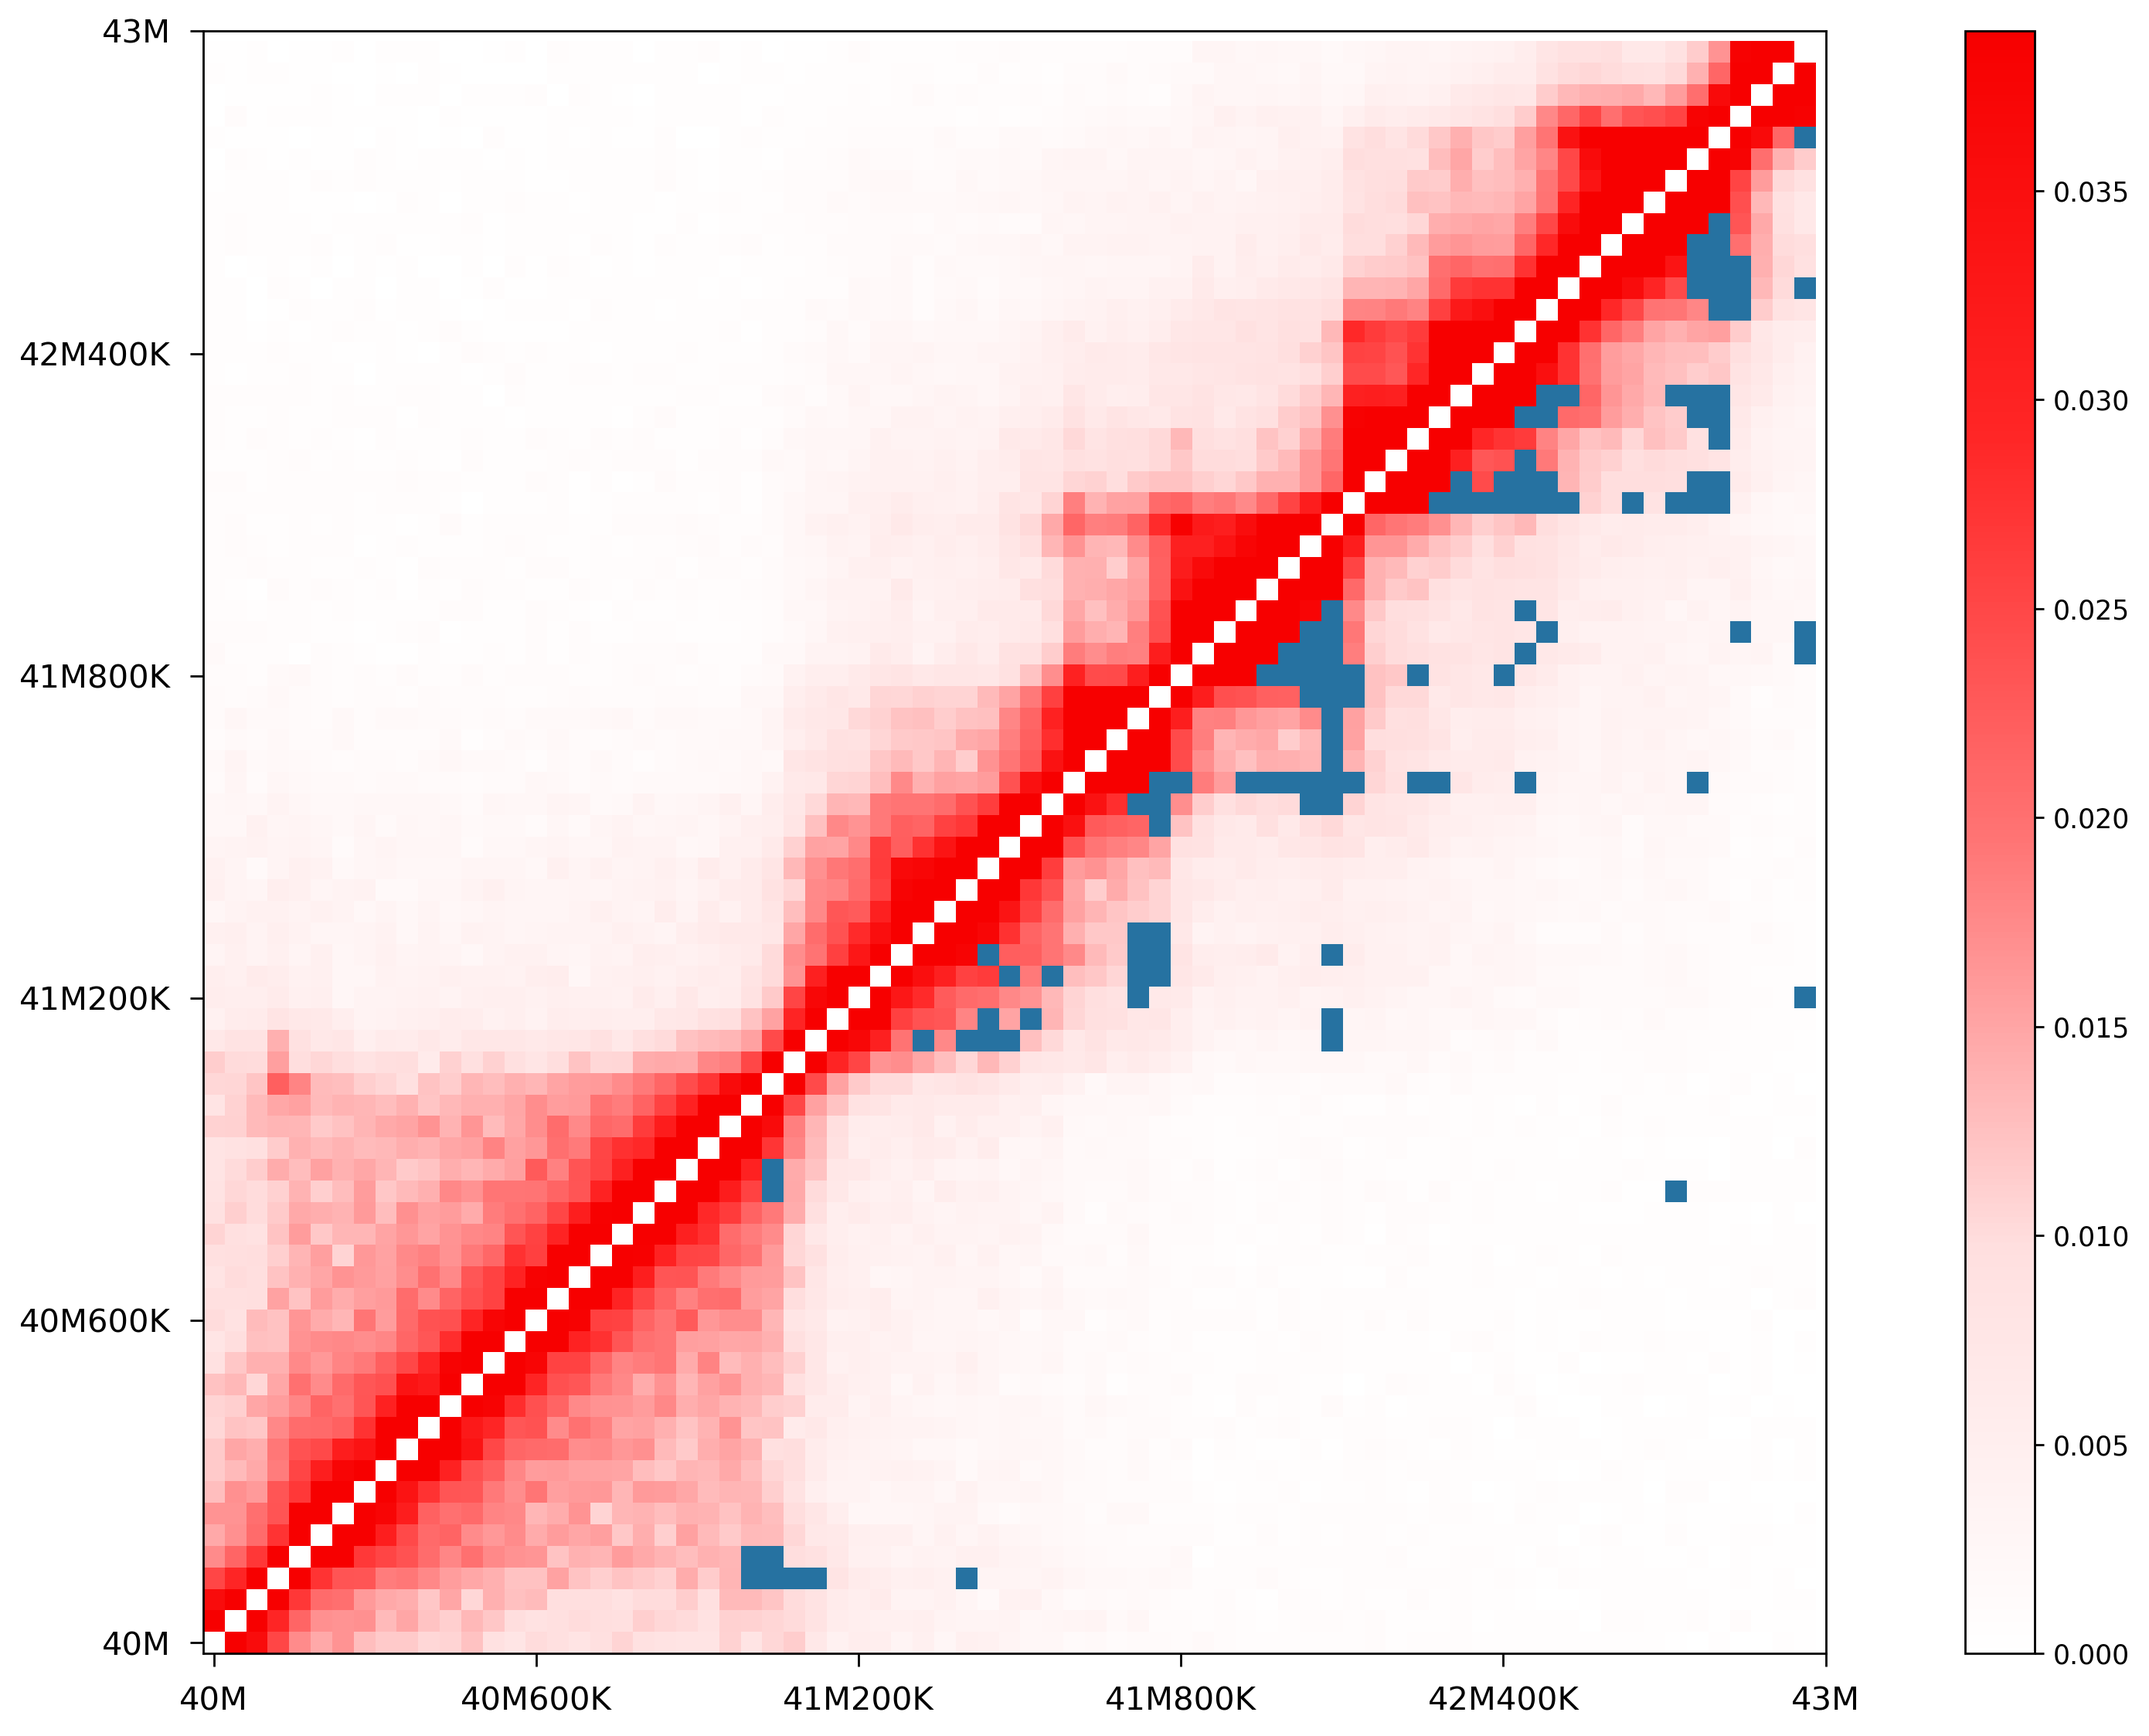
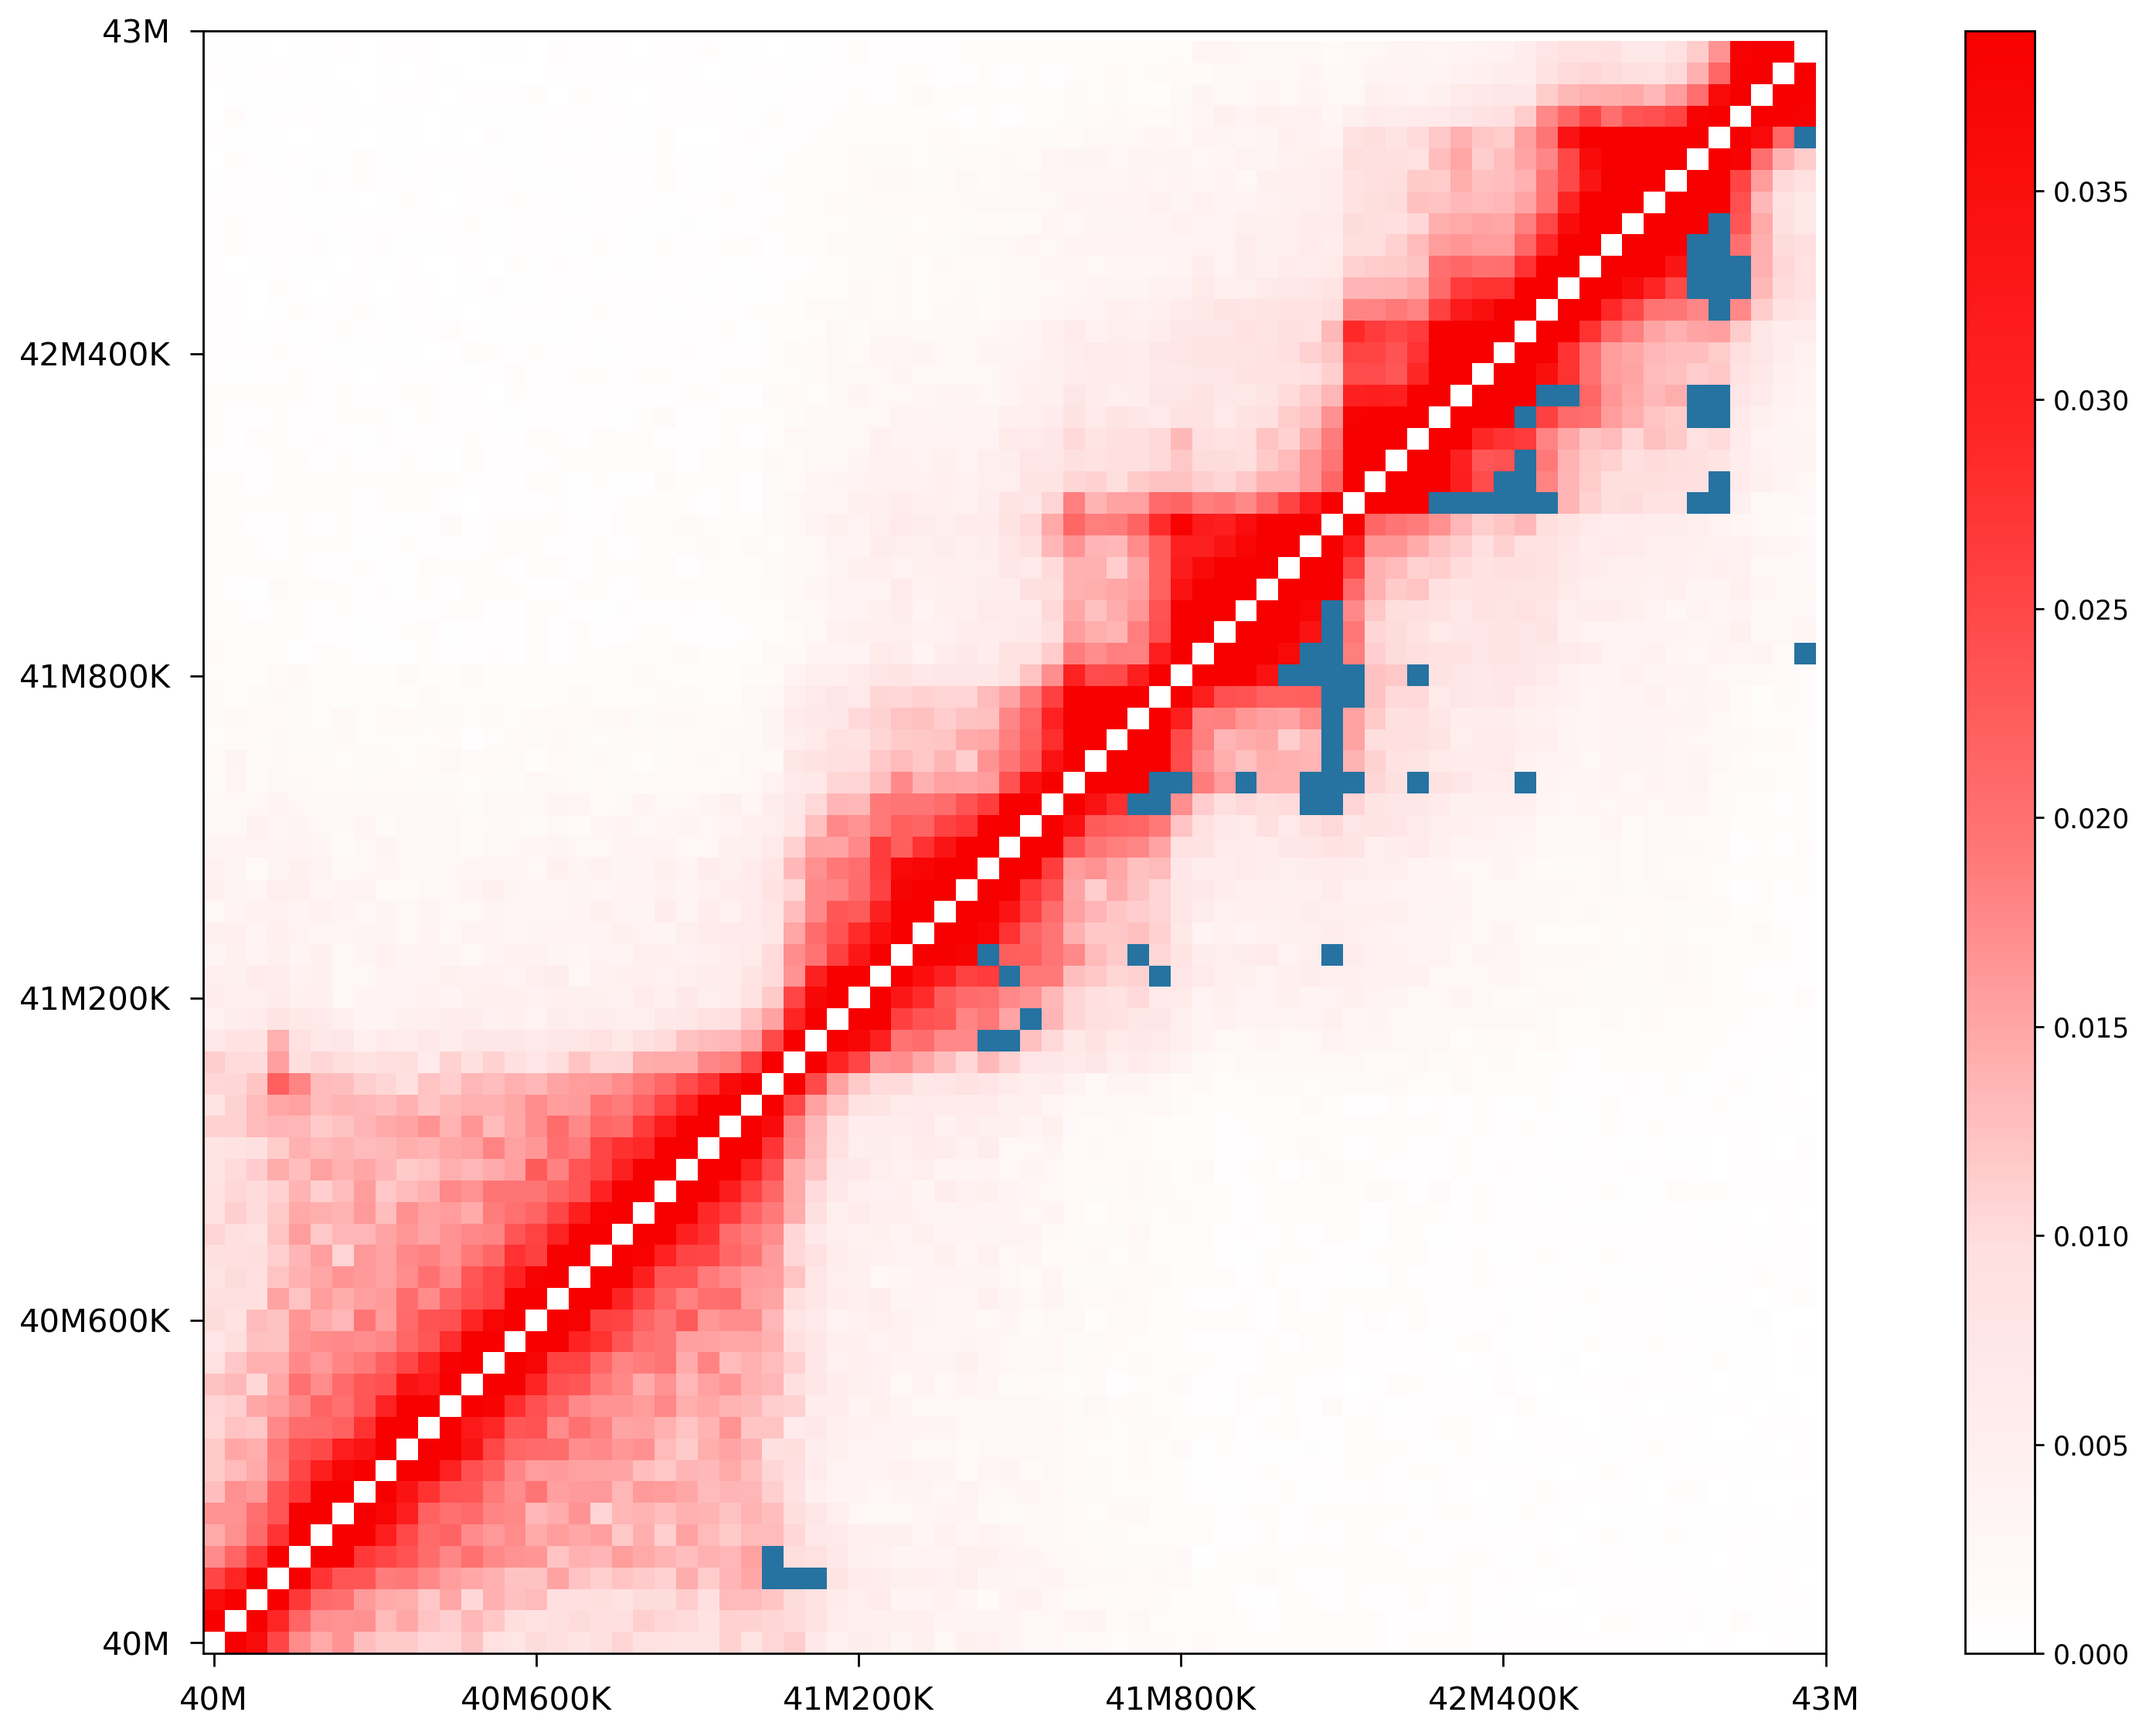
version 0.2.0
1. add vertical and horizontal backgrounds
2. add additional filtering based on dbscan clusters and more stringent q values threshold

diff --git a/lib/__init__.py b/lib/__init__.py
@@ -3,7 +3,7 @@
 # Author: XiaoTao Wang
 
 __author__ = 'XiaoTao Wang'
-__version__ = '0.1.1'
+__version__ = '0.2.0'
 __license__ = 'GPLv3+'
 
 Me = __file__

diff --git a/README.rst b/README.rst
@@ -107,9 +107,8 @@ Overview
   near the diagonal (<2Mb), HICCUPS is able to generalize itself to any genomic distance in theory. Here, *pyHICCUPS*
   keeps all main concepts of the original algorithm except for these points which may be fixed in the near future:
 
-  1. *pyHICCUPS* excludes vertical and horizontal backgrounds from its calculation.
-  2. *pyHICCUPS* doesn't implement additional filtering of peak pixels based on local enrichment thresholds and local
-     clusters.
+  1. *pyHICCUPS* doesn't implement additional filtering of peak pixels based on local enrichment thresholds.
+  2. *pyHICCUPS* doesn't cluster original nearby peak pixels into a single peak call.
   3. I haven't implemented the function to combine peak annotations at different resolutions.
   4. Due to computational complexity, you should still limit the genomic distance of 2 loci to some degree (5Mb/10Mb).
 
@@ -203,7 +202,7 @@ pyBHFDR and pyHICCUPS
 ---------------------
 With cooler URI, you can perform peak annotation by *pyBHFDR* or *pyHICCUPS*::
 
-    $ pyBHFDR -O K562-MboI-BHFDR-loops.txt -p K562-MboI-parts.cool::40000 -C 21 22 --pw 1 --ww 3 --maxww 10
+    $ pyBHFDR -O K562-MboI-BHFDR-loops.txt -p K562-MboI-parts.cool::40000 -C 21 22 --pw 1 --ww 3
 
 Or::
 
@@ -215,15 +214,16 @@ Before step to the next section, let's list the contents under current working d
 
     $ ls -lh
 
-    total 2968
-    drwxr-xr-x  5 xtwang  staff   160B Aug 21 23:25 40K
-    -rw-r--r--  1 xtwang  staff    32K Aug 22 11:12 BHFDR.log
-    -rw-r--r--  1 xtwang  staff    68K Aug 22 11:13 HICCUPS.log
-    -rw-r--r--  1 xtwang  staff   270K Aug 22 11:12 K562-MboI-BHFDR-loops.txt
-    -rw-r--r--  1 xtwang  staff   185K Aug 22 11:13 K562-MboI-HICCUPS-loops.txt
-    -rw-r--r--  1 xtwang  staff   704K Aug 22 10:31 K562-MboI-parts.cool
-    -rw-r--r--  1 xtwang  staff    18B Aug 21 23:25 datasets
-    -rw-r--r--  1 xtwang  staff    29K Aug 22 10:31 tocooler.log
+    total 2360
+    drwxr-xr-x  5 xtwang  staff   160B Aug 25 23:18 40K
+    -rw-r--r--  1 xtwang  staff   3.4K Aug 25 23:19 BHFDR.log
+    -rw-r--r--  1 xtwang  staff   7.3K Aug 25 23:20 HICCUPS.log
+    -rw-r--r--  1 xtwang  staff   268K Aug 25 23:19 K562-MboI-BHFDR-loops.txt
+    -rw-r--r--  1 xtwang  staff    38K Aug 25 23:20 K562-MboI-HICCUPS-loops.txt
+    -rw-r--r--  1 xtwang  staff   704K Aug 25 23:19 K562-MboI-parts.cool
+    -rw-r--r--  1 xtwang  staff    18B Aug 25 23:18 datasets
+    -rw-r--r--  1 xtwang  staff   293B Aug 25 23:18 hg38.chromsizes
+    -rw-r--r--  1 xtwang  staff    29K Aug 25 23:19 tocooler.log
 
 Peak Visualization
 ------------------
@@ -231,7 +231,7 @@ Now, you can visualize BH-FDR and HICCUPS peak annotations on heatmap with *peak
 
 For BH-FDR peaks::
 
-    $ peak-plot -O test-BHFDR.png --dpi 250 -p K562-MboI-parts.cool::40000 -I K562-MboI-BHFDR-loops.txt -C 21 -S 40000000 -E 43000000 --correct --siglevel 0.01
+    $ peak-plot -O test-BHFDR.png --dpi 250 -p K562-MboI-parts.cool::40000 -I K562-MboI-BHFDR-loops.txt -C 21 -S 40000000 -E 43000000 --correct --siglevel 0.0001
 
 The output figure should look like this:
 
@@ -241,7 +241,7 @@ The output figure should look like this:
 
 For HICCUPS peaks::
 
-    $ peak-plot -O test-HICCUPS.png --dpi 250 -p K562-MboI-parts.cool::40000 -I K562-MboI-HICCUPS-loops.txt -C 21 -S 40000000 -E 43000000 --correct --siglevel 0.01
+    $ peak-plot -O test-HICCUPS.png --dpi 250 -p K562-MboI-parts.cool::40000 -I K562-MboI-HICCUPS-loops.txt -C 21 -S 40000000 -E 43000000 --correct --siglevel 0.1
 
 And the output plot:
 
